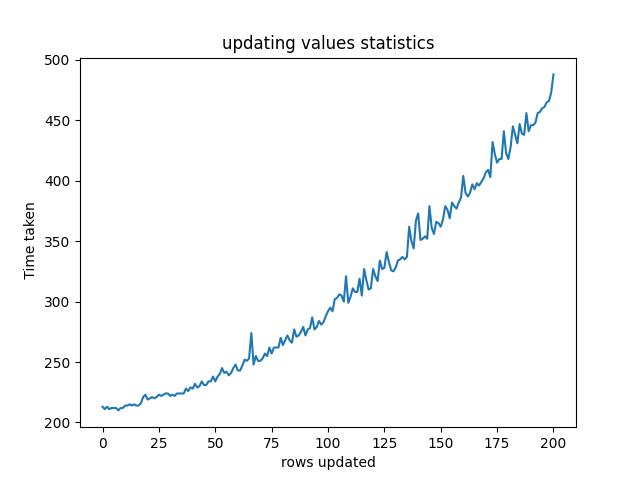
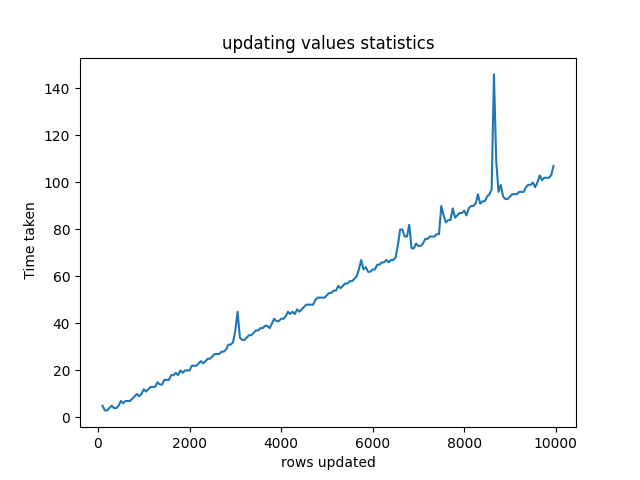
remake updating values chart

diff --git a/src/tests.c b/src/tests.c
@@ -478,7 +478,7 @@ result test_updating_values_speed_with_writing_result(database *db) {
         goto release_tb;
     }
 
-    test_error = fill_with_test_data(db, tb.value, 0, 20100);
+    test_error = fill_with_test_data(db, tb.value, 0, 100);
     if (test_error) goto release_tb;
 
     char *charts_data_file = "charts_data/updating_values_statistics.csv";
@@ -498,11 +498,12 @@ result test_updating_values_speed_with_writing_result(database *db) {
         goto release_dt;
     }
 
-    size_t rows_updated = 0;
+    bool updated_val[10000];
+    size_t ceil = 100;
 
-    for (size_t it = 0; it < 201; it++) {
+    for (size_t it = 0; it < 198; it++) {
         any_typed_value data_values[4] = {
-                (any_typed_value) { .type=INT_32, .value=(any_value) { .int_value=it + 99999 } }, 
+                (any_typed_value) { .type=INT_32, .value=(any_value) { .int_value=ceil } }, 
                 (any_typed_value) { .type=BOOL, .value=(any_value) { .bool_value=false } },
                 (any_typed_value) { .type=FLOAT, .value=(any_value) { .float_value=3.1415 } },
                 (any_typed_value) { .type=STRING, .value=(any_value) {.string_value="string test"} } 
@@ -513,24 +514,28 @@ result test_updating_values_speed_with_writing_result(database *db) {
             if (test_error) goto release_dt;
         }
 
+        int32_t rand_val = 0;
+
+        while ( updated_val[( rand_val = rand() % ceil )] );
+        updated_val[rand_val] = true;
+
         clock_t t = clock();
 
-        closure update_int = (closure) { .func=filter_int_less, .value1=(any_value) { .int_value=rows_updated + it }};
+        closure update_int = (closure) { .func=simple_ints_search_predicate, .value1=(any_value) { .int_value=rand_val }};
 
         result_with_count update_result = update_where(tb.value, INT_32, "ints", update_int, update_dt.value);
-        if (update_result.error || update_result.count != it) {
+        if (update_result.error || update_result.count != 1) {
             test_error = update_result.error == OK ? JOB_WAS_NOT_DONE : update_result.error;
             goto release_dt;
         }
 
         t = clock() - t;
         double time_taken = (double)t;
-        if (timestamp_file != NULL) fprintf(timestamp_file, "%zu, %f\n", it, time_taken);
+        if (timestamp_file != NULL) fprintf(timestamp_file, "%zu, %f\n", ceil, time_taken);
 
-        test_error = fill_with_test_data(db, tb.value, rows_updated + 999000, rows_updated + it + 999000);
+        ceil += 50;
+        test_error = fill_with_test_data(db, tb.value, ceil - 49, ceil);
         if (test_error) goto release_dt;
-
-        rows_updated += it;
 
         clear_data(update_dt.value);
     }
